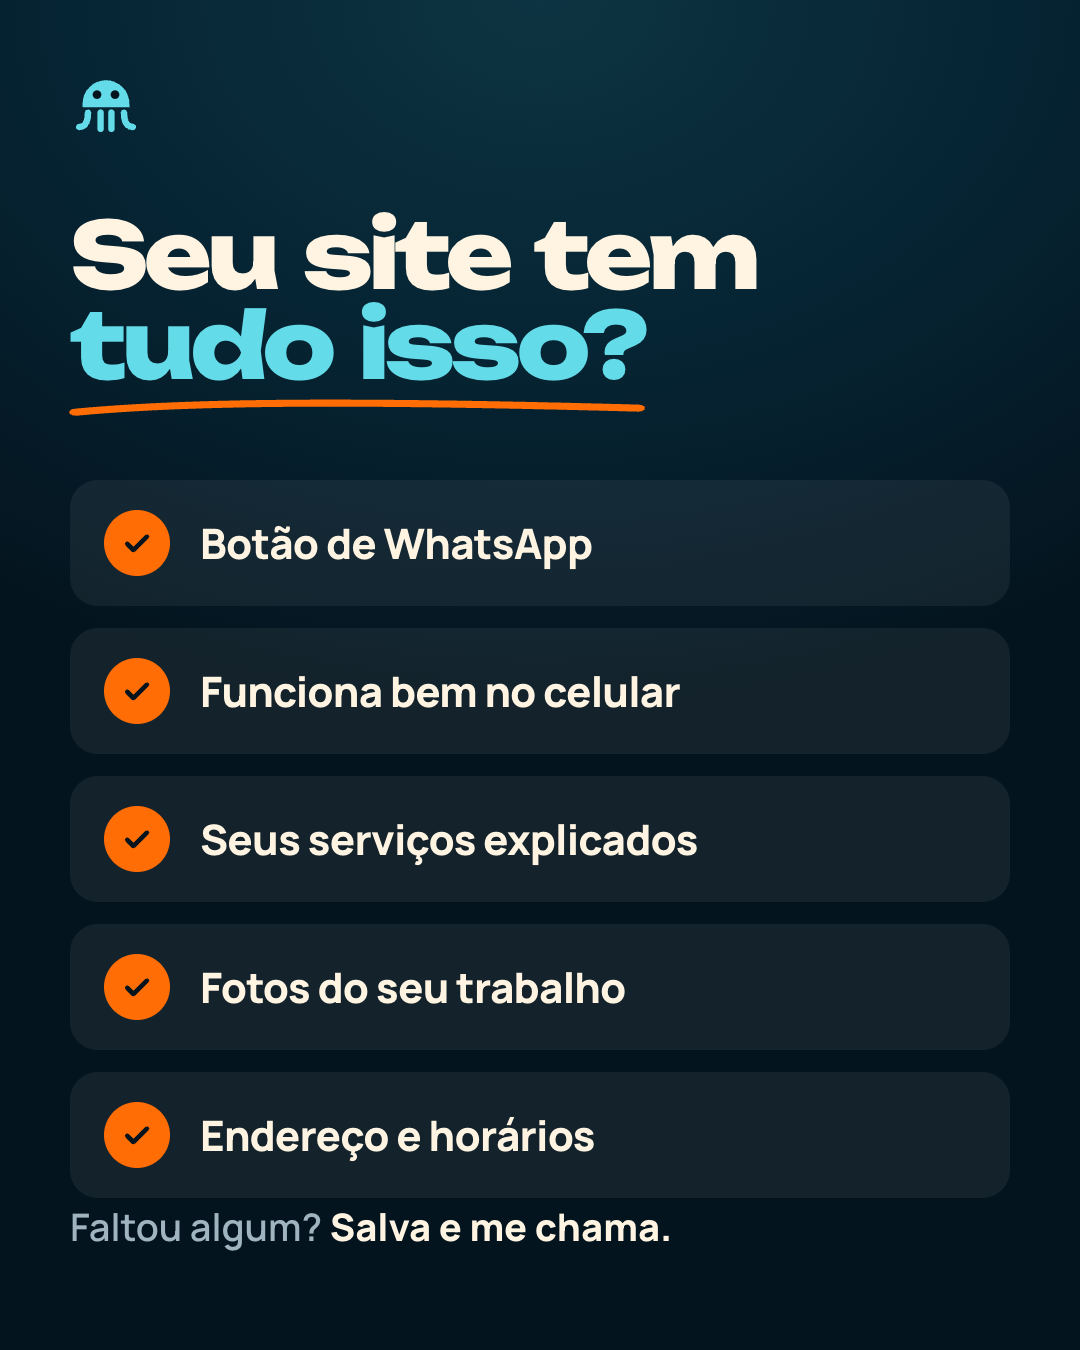
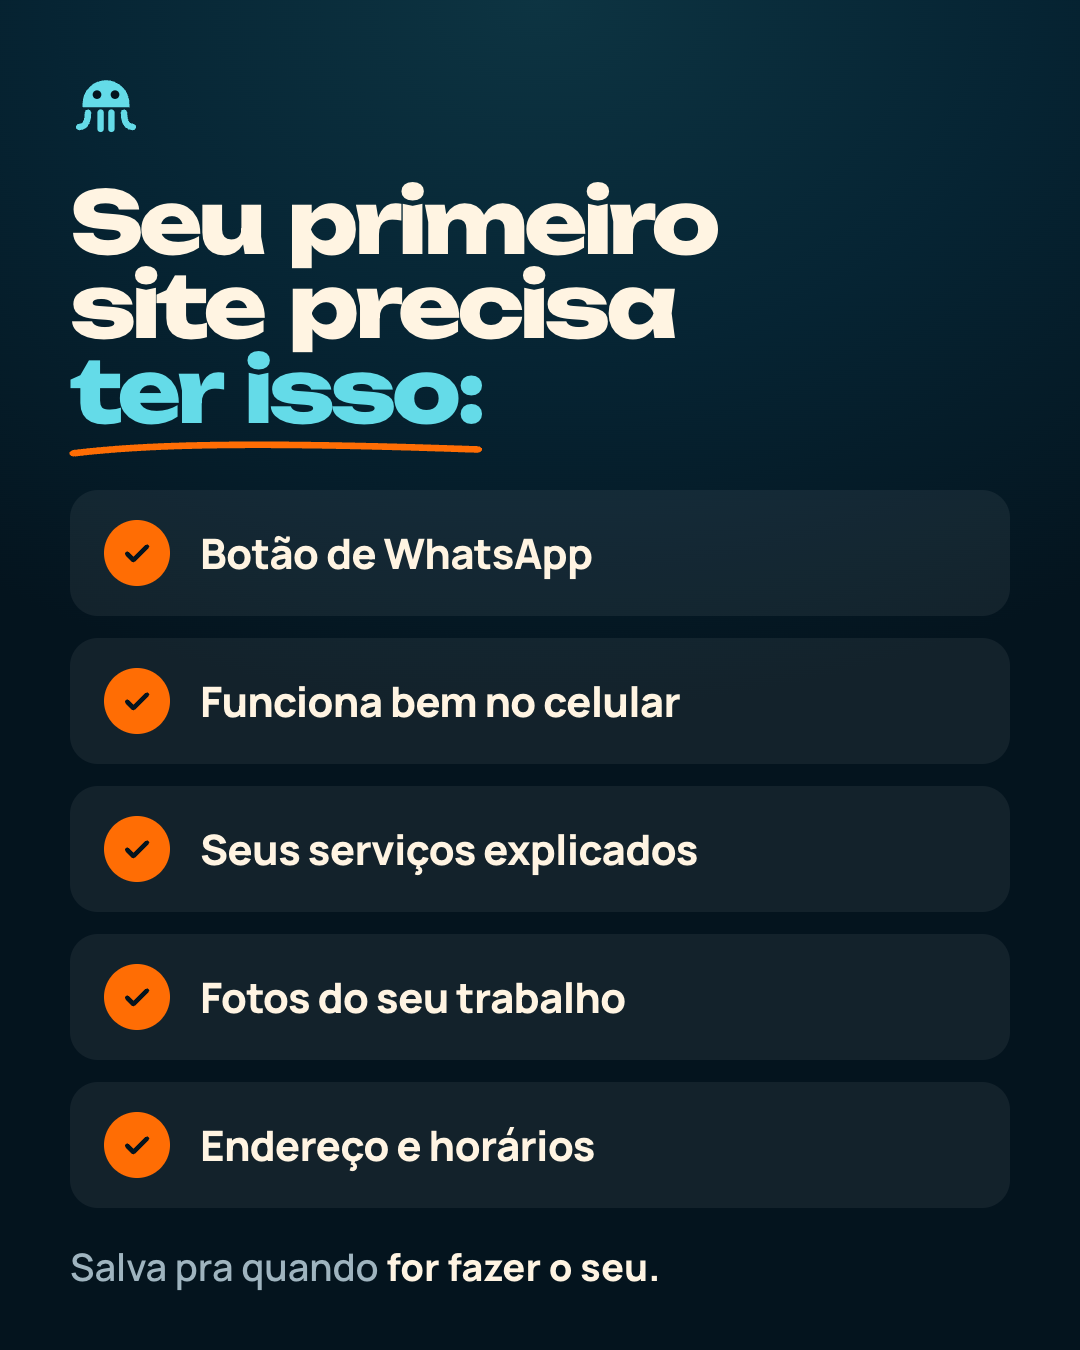
Legendas mais curtas e checklist voltado a quem vai fazer o primeiro site

diff --git a/instagram/_fontes/feed-final.html b/instagram/_fontes/feed-final.html
@@ -279,7 +279,7 @@ return [
   { type: 'cta', bg: 'navy', title: 'Caro é o|cliente que|[não te achou.]', size: 96, top: 250, body: 'Me pede um orçamento <strong>sem compromisso.</strong>', bodyTop: 680, btnTop: 840, btn: 'Pedir orçamento', peek: { phones: [MO('coloreouros'), MO('savio'), MO('imobiliaria')], top: 1050 } },
 ]},
 { folder: '08 - Checklist (post)', slides: [
-  { type: 'list', bg: 'navy', title: 'Seu site tem|[tudo isso?]', size: 92, check: true, items: ['Botão de WhatsApp', 'Funciona bem no celular', 'Seus serviços explicados', 'Fotos do seu trabalho', 'Endereço e horários'], listTop: 480, body: 'Faltou algum? <strong>Salva e me chama.</strong>', bodyTop: 1200 },
+  { type: 'list', bg: 'navy', title: 'Seu primeiro|site precisa|[ter isso:]', size: 86, top: 180, check: true, items: ['Botão de WhatsApp', 'Funciona bem no celular', 'Seus serviços explicados', 'Fotos do seu trabalho', 'Endereço e horários'], listTop: 490, body: 'Salva pra quando <strong>for fazer o seu.</strong>', bodyTop: 1240 },
 ]},
 { folder: '09 - Link na bio (post)', slides: [
   { type: 'photoDark', bg: 'navy', title: 'Lista de links|ou [site próprio?]', size: 80, img: MO('savio') },

diff --git a/instagram/_fontes/feed-final.posts.js b/instagram/_fontes/feed-final.posts.js
@@ -52,7 +52,7 @@ return [
   { type: 'cta', bg: 'navy', title: 'Caro é o|cliente que|[não te achou.]', size: 96, top: 250, body: 'Me pede um orçamento <strong>sem compromisso.</strong>', bodyTop: 680, btnTop: 840, btn: 'Pedir orçamento', peek: { phones: [MO('coloreouros'), MO('savio'), MO('imobiliaria')], top: 1050 } },
 ]},
 { folder: '08 - Checklist (post)', slides: [
-  { type: 'list', bg: 'navy', title: 'Seu site tem|[tudo isso?]', size: 92, check: true, items: ['Botão de WhatsApp', 'Funciona bem no celular', 'Seus serviços explicados', 'Fotos do seu trabalho', 'Endereço e horários'], listTop: 480, body: 'Faltou algum? <strong>Salva e me chama.</strong>', bodyTop: 1200 },
+  { type: 'list', bg: 'navy', title: 'Seu primeiro|site precisa|[ter isso:]', size: 86, top: 180, check: true, items: ['Botão de WhatsApp', 'Funciona bem no celular', 'Seus serviços explicados', 'Fotos do seu trabalho', 'Endereço e horários'], listTop: 490, body: 'Salva pra quando <strong>for fazer o seu.</strong>', bodyTop: 1240 },
 ]},
 { folder: '09 - Link na bio (post)', slides: [
   { type: 'photoDark', bg: 'navy', title: 'Lista de links|ou [site próprio?]', size: 80, img: MO('savio') },
